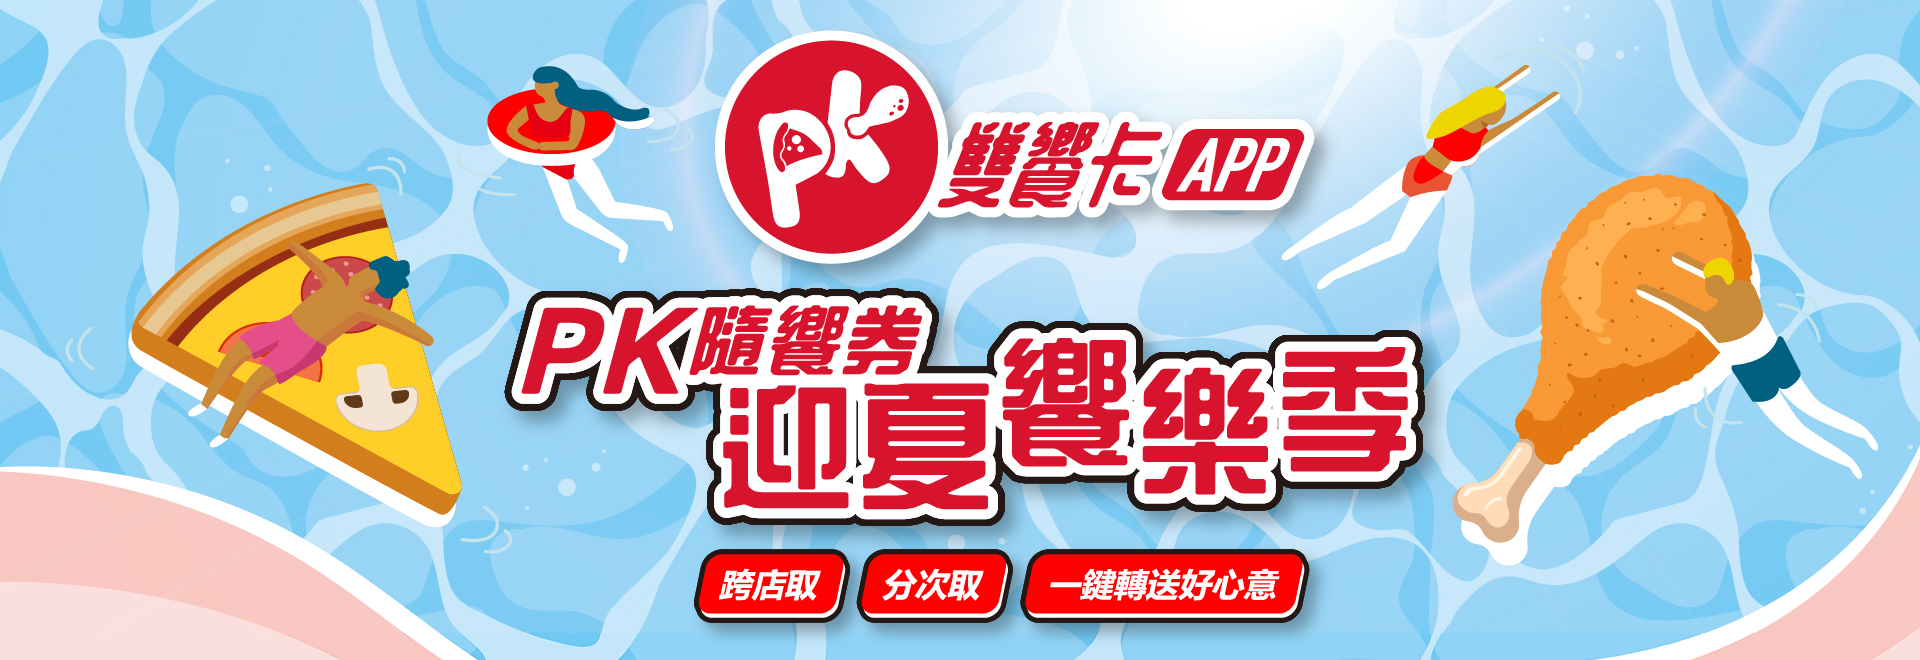
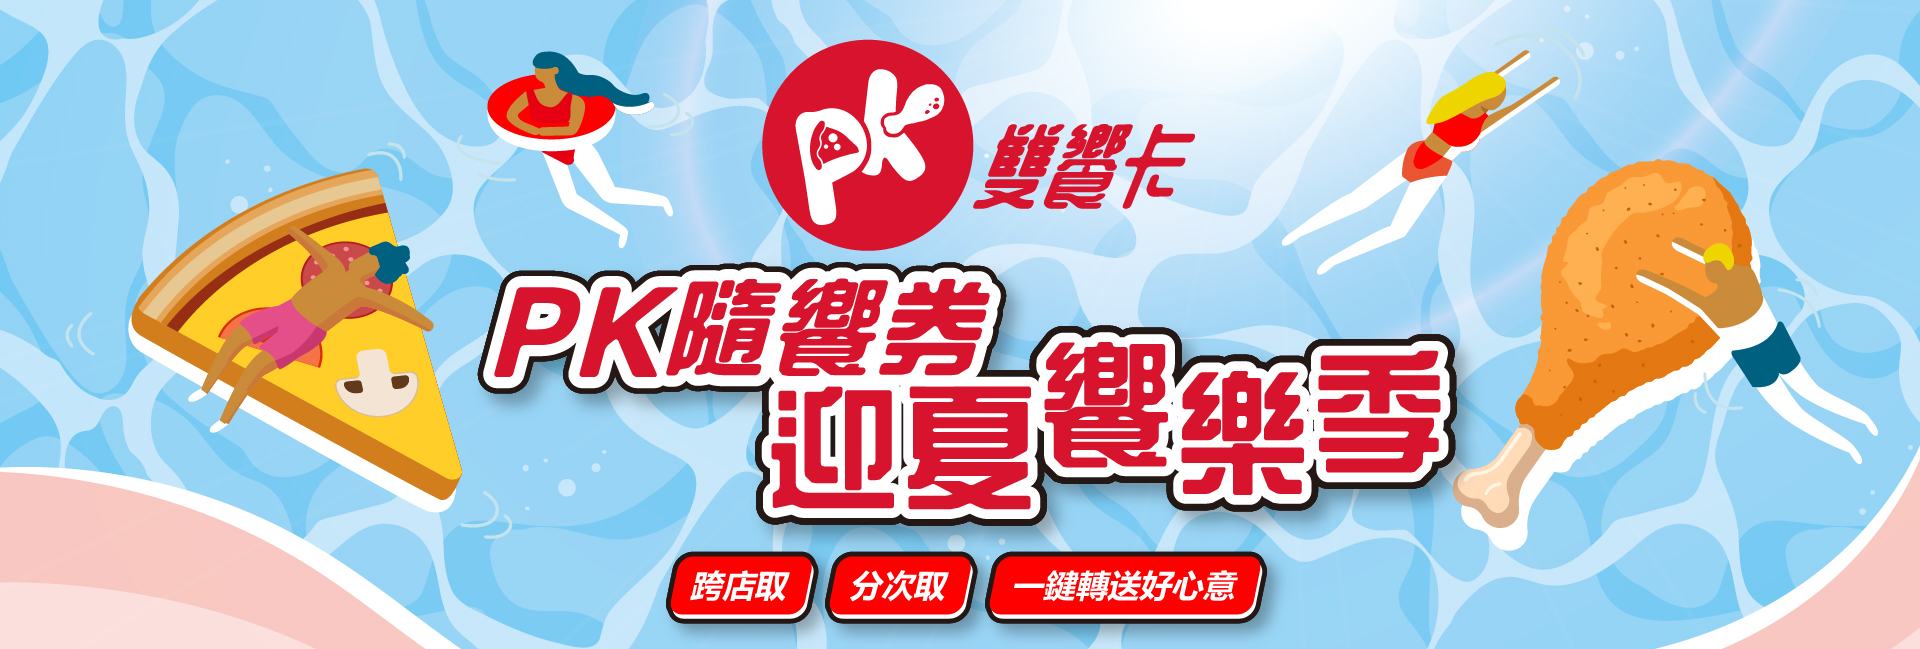
Pizzahut
-KV updatred
-text style

diff --git a/demo/Pizzahut/summer/assets/css/all.css b/demo/Pizzahut/summer/assets/css/all.css
@@ -78,17 +78,17 @@ html {line-height: 1;-webkit-text-size-adjust: 100%;}body {margin: 0;}main {disp
 }
     #wrapper #KV .coupon{
         width: 1080px;
-        margin: 5rem auto 0;
+        margin: -3.8rem auto 0;
         position: relative;
         z-index: 100;
-        padding: 3rem;
+        padding: 5rem 3rem;
         background:url(../images/header_content_bg.png) center center no-repeat;
         background-size:contain;
     }
 
     #wrapper #KV .coupon ul{
         display: flex;  
-        list-style: none;  
+        /*list-style: none;  */
     }
         #wrapper #KV .coupon ul{
             margin: 1rem 0 0;
@@ -136,14 +136,26 @@ html {line-height: 1;-webkit-text-size-adjust: 100%;}body {margin: 0;}main {disp
                 line-height: 2rem;
                 text-align: left;
             }
+                #wrapper #KV .coupon h2 ul{
+                    list-style: disc;
+                    display: block;
+                    padding:0 0 0 2.5rem;
+                }
+                #wrapper #KV .coupon h2 ul li{
+                    list-style-type: disc;
+                }
                 #wrapper #KV .coupon h2 span{
                     font-weight: 1000;
+                }
+                #wrapper #KV .coupon h2 span:after{
+                    content:"\A";
+                    white-space: pre;
                 }
                
     @media only screen and (max-width:959px){
         #wrapper #KV .coupon{
             width: 95%;
-            margin: -5rem auto 0;
+            margin: -3.5rem auto 0;
             position: relative;
             z-index: 100;
             padding: 2rem .5rem;
@@ -152,11 +164,7 @@ html {line-height: 1;-webkit-text-size-adjust: 100%;}body {margin: 0;}main {disp
         }
         #wrapper #KV .coupon ul{
             display: none;  
-            list-style: none;  
-            padding: 1.5rem .5rem;
-                margin: 4rem 0 0;
-                
-                padding:0;
+
         }
                 #wrapper #KV .coupon ul li{
                     display: flex;
@@ -196,38 +204,28 @@ html {line-height: 1;-webkit-text-size-adjust: 100%;}body {margin: 0;}main {disp
 
                 #wrapper #KV .coupon h2{
                     font-weight: 400;
+                    width:85%;
+                    margin:0 auto;
                     color: #000;
                     font-size: 1rem;
                     line-height: 1.5rem;
                     text-align: left;
-                    padding:0.5rem;
+                    padding:1rem;
+                }
+                #wrapper #KV .coupon h2 > ul{
+                    list-style: disc;
+                    display: block;
+                    padding:0;
+                    margin:0;
+                }
+                #wrapper #KV .coupon h2 > ul li{
+                    list-style: disc;
+                    /*content:"•";*/
                 }
                 #wrapper #KV .coupon h2 span{
                     font-weight: 1000;
                 }
-                    #wrapper #KV .coupon .ticket li{
-                        width:85%;
-                        padding:2% 1%;
-                        margin:2% auto;
-                        background: #c9caca;
-                        border-radius: .5rem;
-                    }
-                        #wrapper #KV .coupon .ticket li > img{
-                            width:100%;
-                            margin: 0 0 .5rem 0;
-                        }
-                        #wrapper #KV .coupon .ticket li .purchase{
-                            display: flex;
-                            align-items: center;
-                            justify-content: space-around;
-                        }
-                            #wrapper #KV .coupon .ticket li .purchase img{
-                                
-                            }
-                            #wrapper #KV .coupon .ticket li .purchase p{
-                                line-height: 1.2rem;
-                                font-size: 0.8rem;
-                            }
+                   
                         #wrapper #KV .more img{
                         display: block;
                         width:70%;
@@ -401,13 +399,14 @@ html {line-height: 1;-webkit-text-size-adjust: 100%;}body {margin: 0;}main {disp
         display: flex;
         width: 1366px;
         margin: 0 auto;
-        height:80%;
+        height:90%;
+        padding:0;
     }
         #wrapper #use .steps > li{
             list-style: none;
             color:#fff;
             padding:0.5rem;
-            width: 24%;
+            width: 25%;
         }
         #wrapper #use .steps li:after{
             /*font-size: 2.5rem;
@@ -459,6 +458,23 @@ html {line-height: 1;-webkit-text-size-adjust: 100%;}body {margin: 0;}main {disp
                 display: block;
                 margin:0 auto;
             }
+    @media (min-width:960px) and (max-width:1365px) {
+        #wrapper #use .steps{
+            display: flex;
+            width: 100%;
+            margin: 0 auto;
+            height:90%;
+            padding:0;
+        }
+
+                #wrapper #use .steps li > p{
+                    font-size: 1rem;
+                    line-height: 1.8rem;
+                    width:90%;
+                    height: 7.2rem;
+                    padding:0 0 2rem;
+                }
+    }
     @media only screen and (max-width:959px){
         #wrapper #use{
             padding:1rem 2%;

diff --git a/demo/Pizzahut/summer/index.html b/demo/Pizzahut/summer/index.html
@@ -64,12 +64,16 @@
             
             <div class="coupon">
                 <img class="m" src="assets/images/plan_m.png" />
-                <h2><span>迎夏第1重 :</span> 5/5-5/18 購買PK隨饗券，豪禮雙重抽 免登記 下單就抽每天抽出一筆PK隨饗券購買訂單，回饋三倍PK點數(以該筆訂單金額計算) 訂單滿額再抽PK隨饗券 單筆消費滿$1500，再抽Switch酷夏好禮乙台(共2名)</h2>
-                <h2><span>迎夏第2重 :</span> 5/9-5/29 兌換PK隨饗券，美味再加乘於活動期間使用隨饗券就抽PK點數520點，每日抽出一名， 愈早兌換、中獎機率愈高!</h2>
+                <h2><span>迎夏第1重 :</span> 5/5-5/18 購買PK隨饗券，豪禮雙重抽
+                    <ul>
+                        <li>免登記 下單就抽每天抽出一筆PK隨饗券購買訂單，回饋三倍PK點數(以該筆訂單金額計算)</li><li>訂單滿額再抽PK隨饗券 單筆消費滿$1500，再抽Switch酷夏好禮乙台(共2名)</li></ul></h2>
+                <h2><span>迎夏第2重 :</span> 5/9-5/29 兌換PK隨饗券，美味再加乘
+                    <ul>
+                        <li>於活動期間使用隨饗券就抽PK點數520點，每日抽出一名， 愈早兌換、中獎機率愈高!</li></ul></h2>
                 <ul id="plan">
                     <li class="qrcode d"><em>掃描QR code<p>立即購買</p></em><img src="assets/images/qrcode.png" /></li>
                 </ul>
-                <div class="more m"><a target="_blank" href="https://app.pkcard.com.tw/link/Tr9k"><img src="assets/images/CTA.jpg" /></a></div>
+                <div class="more m"><a target="_blank" href="https://app.pkcard.com.tw/link/EBaB"><img src="assets/images/CTA.jpg" /></a></div>
 
             </div>
             </div>
